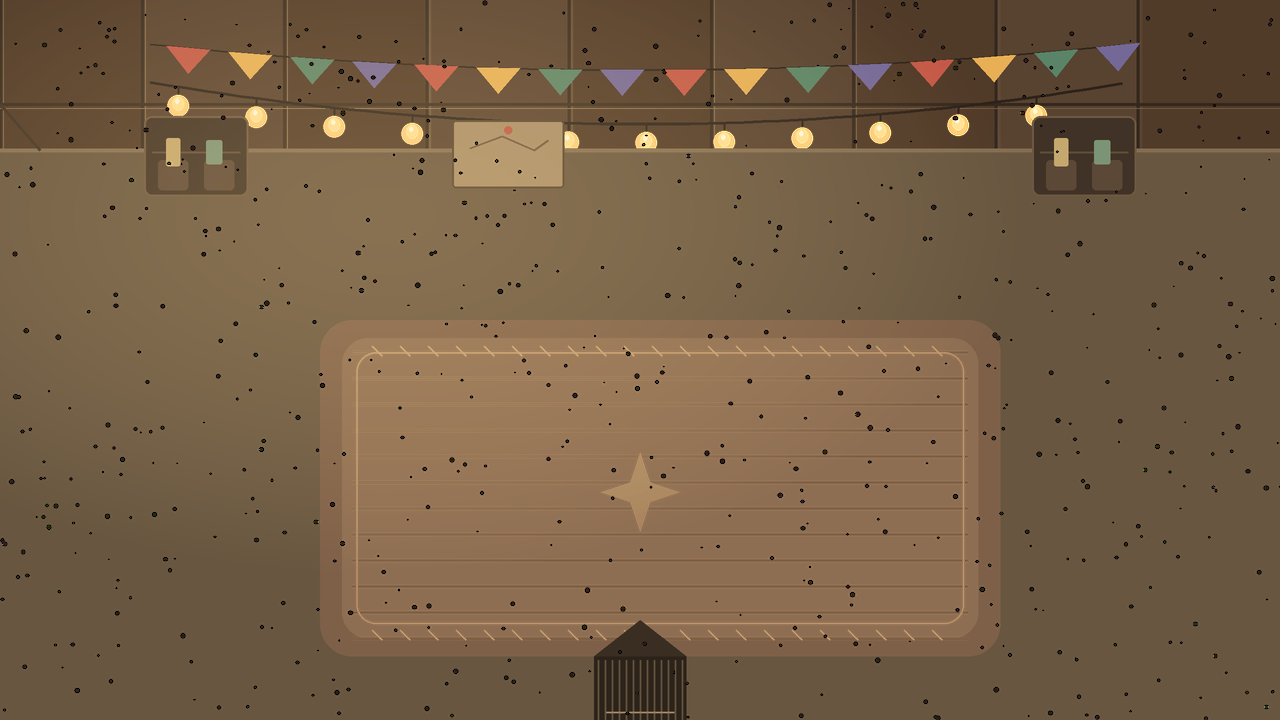
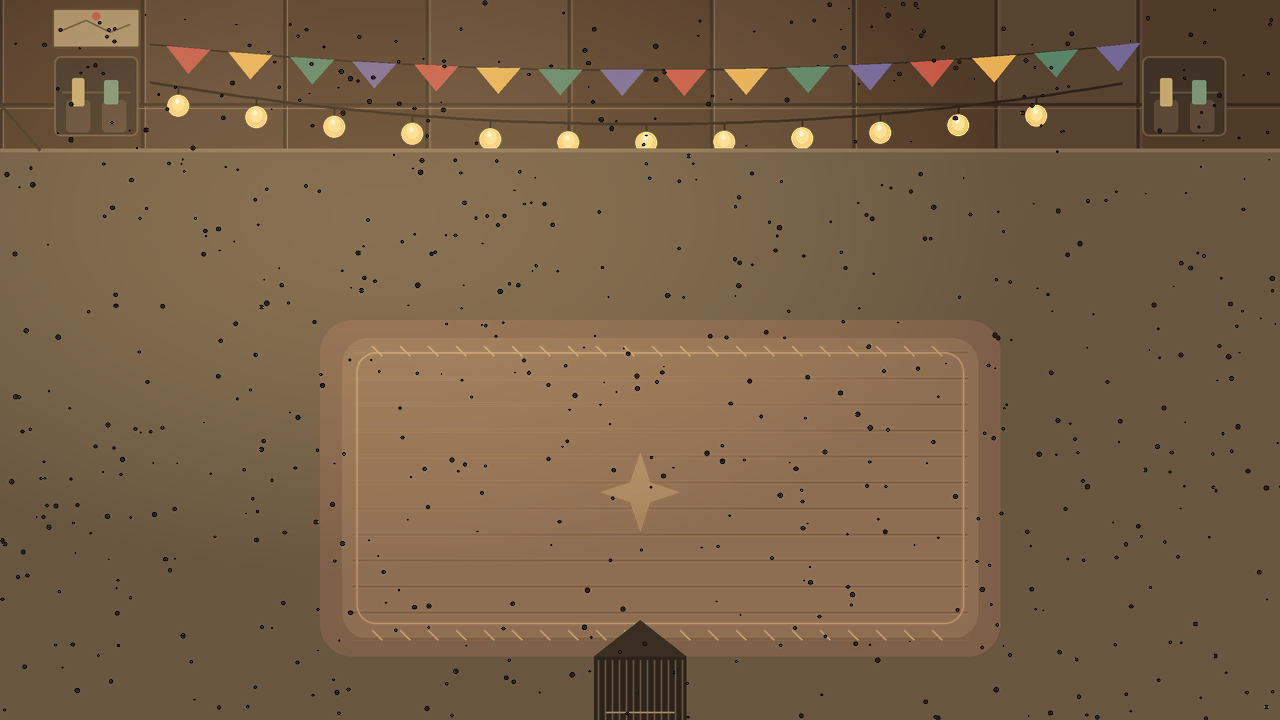
텐트 벽 걷기 방지·벽 장식 위치 정리·장식 소품 통과 불가 수정

diff --git a/Project/pico_heist/make_assets.py b/Project/pico_heist/make_assets.py
@@ -380,27 +380,27 @@ def bg_tent():
                (cx * ss, (cy + 40) * ss), ((cx - 10) * ss, (cy + 10) * ss),
                ((cx - 40) * ss, cy * ss), ((cx - 10) * ss, (cy - 10) * ss)],
               fill=(166, 130, 94, 95))
-    # ---- 벽 수납 포켓 (좌우, 이음선 아래에 걸려 있음)
-    for bx in (196, 1084):
-        d.rounded_rectangle([(bx - 52) * ss, 116 * ss, (bx + 52) * ss, 196 * ss],
-                            8 * ss, fill=(64, 50, 38, 255),
+    # ---- 좌우 벽 수납 포켓 (걷지 못하는 벽면 안쪽에만 걸어 둔다)
+    for bx in (96, 1184):
+        d.rounded_rectangle([(bx - 42) * ss, 56 * ss, (bx + 42) * ss, 136 * ss],
+                            7 * ss, fill=(64, 50, 38, 255),
                             outline=(110, 88, 64, 255), width=2 * ss)
-        d.line([(bx - 44) * ss, 152 * ss, (bx + 44) * ss, 152 * ss],
+        d.line([(bx - 34) * ss, 92 * ss, (bx + 34) * ss, 92 * ss],
                fill=(96, 76, 56, 255), width=2 * ss)
-        for x0, x1 in ((bx - 38, bx - 8), (bx + 8, bx + 38)):
-            d.rounded_rectangle([x0 * ss, 160 * ss, x1 * ss, 190 * ss],
+        for x0, x1 in ((bx - 30, bx - 6), (bx + 6, bx + 30)):
+            d.rounded_rectangle([x0 * ss, 100 * ss, x1 * ss, 132 * ss],
                                 4 * ss, fill=(92, 72, 54, 255))
-        d.rounded_rectangle([(bx - 30) * ss, 138 * ss, (bx - 16) * ss, 166 * ss],
+        d.rounded_rectangle([(bx - 24) * ss, 78 * ss, (bx - 12) * ss, 106 * ss],
                             2 * ss, fill=(196, 168, 110, 255))
-        d.rounded_rectangle([(bx + 10) * ss, 140 * ss, (bx + 26) * ss, 164 * ss],
+        d.rounded_rectangle([(bx + 8) * ss, 80 * ss, (bx + 22) * ss, 104 * ss],
                             2 * ss, fill=(124, 148, 118, 255))
-    # ---- 벽에 걸린 지도 메모
-    d.rounded_rectangle([452 * ss, 120 * ss, 564 * ss, 188 * ss], 4 * ss,
+    # ---- 왼쪽 벽 지도 메모 (포켓 위, 역시 벽면 안쪽)
+    d.rounded_rectangle([52 * ss, 8 * ss, 140 * ss, 48 * ss], 3 * ss,
                         fill=(168, 142, 104, 255), outline=(88, 68, 48, 255),
                         width=2 * ss)
-    d.line([(470 * ss, 148 * ss), (502 * ss, 136 * ss), (534 * ss, 150 * ss),
-            (548 * ss, 140 * ss)], fill=(110, 86, 62, 220), width=2 * ss)
-    d.ellipse([(504 * ss, 126 * ss), (512 * ss, 134 * ss)],
+    d.line([(62 * ss, 30 * ss), (86 * ss, 20 * ss), (110 * ss, 32 * ss),
+            (130 * ss, 24 * ss)], fill=(110, 86, 62, 220), width=2 * ss)
+    d.ellipse([(92 * ss, 12 * ss), (100 * ss, 20 * ss)],
               fill=(190, 88, 72, 255))
     # 지퍼 출입구 (아래 가운데)
     d.rectangle([594 * ss, 656 * ss, 686 * ss, H * ss], fill=(44, 35, 26, 255))

diff --git a/Project/pico_heist/game.py b/Project/pico_heist/game.py
@@ -126,11 +126,11 @@ PROP_SPECS = {
     "prop_grill":      dict(solid=(60, 22), cover=None, pad=2, shadow=64),
     "prop_sleepbag":   dict(solid=(0, 0), cover=None, pad=2, shadow=118),
     "prop_sleeper":    dict(solid=(0, 0), cover=None, pad=2, shadow=0),
-    # 텐트 장식 소품 — 충돌·엄폐·은신 기능 없이 보이는 것만 한다
-    "prop_backpack":   dict(solid=(0, 0), cover=None, pad=1, shadow=44),
-    "prop_rollmat":    dict(solid=(0, 0), cover=None, pad=1, shadow=80),
-    "prop_mug":        dict(solid=(0, 0), cover=None, pad=1, shadow=24),
-    "prop_book":       dict(solid=(0, 0), cover=None, pad=1, shadow=36),
+    # 텐트 장식 소품 — 통과는 못 하지만 시야 차단·은신 기능은 없다
+    "prop_backpack":   dict(solid=(48, 60), cover=None, pad=1, shadow=44),
+    "prop_rollmat":    dict(solid=(88, 24), cover=None, pad=1, shadow=80),
+    "prop_mug":        dict(solid=(24, 28), cover=None, pad=1, shadow=24),
+    "prop_book":       dict(solid=(36, 20), cover=None, pad=1, shadow=36),
 }
 
 

diff --git a/Project/pico_heist/maps.py b/Project/pico_heist/maps.py
@@ -66,7 +66,7 @@ MAPS = [
             "no_go": [
                 (0, 0, 146, 720),        # 왼쪽 벽
                 (1134, 0, 1280, 720),    # 오른쪽 벽
-                (0, 0, 1280, 118),       # 뒤쪽 벽
+                (0, 0, 1280, 150),       # 뒤쪽 벽 (바닥 매트 시작선까지 막는다)
             ],
             "door": (598, 652, 682, 704),
             "props": [
@@ -245,7 +245,7 @@ MAPS = [
             "no_go": [
                 (0, 0, 150, 720),        # 왼쪽 벽
                 (1130, 0, 1280, 720),    # 오른쪽 벽
-                (0, 0, 1280, 118),       # 뒤쪽 벽
+                (0, 0, 1280, 150),       # 뒤쪽 벽 (무대 바닥 시작선까지 막는다)
             ],
             "door": (598, 652, 682, 704),
             "props": [

diff --git a/Project/pico_heist/README.md b/Project/pico_heist/README.md
@@ -60,7 +60,7 @@ python main.py
 - **3번 맵에만 무대 뒤 조리 부스** 서브 맵이 있다. 주황 부스 앞에서 **E**로 들어가고, 안쪽 출입구에서 다시 **E**로 나온다. 진짜 음식 수프가 이 안에 있다.
 - 2번 맵에는 **부두 위에 서 있는 사람이 없다.** 대신 호숫가 언덕에 **앉아서 낚시하는 캠핑객**이 물을 바라보며 앉아 있다(낚싯줄과 물결 연출 포함).
 - 텐트 안에는 **자는 사람**이 있다. 시야는 없지만 **가까이 가면 감지도가 아주 급격하게 오른다**.
-- 텐트 안에는 테이블·쿨러·크레이트 짐더미까지 **소품 15개**가 있어 문에서 음식까지 동선이 한 번씩 꺾인다. 테이블은 추격 시야를 끊는 유일한 엄폐물이다. (자는 사람은 소리를 듣지 않으므로 이 소품들은 감지 수치를 낮추지 않고, 동선만 늘린다.) 배낭·말아 놓은 매트·머그컵·공책 4개는 **충돌·엄폐가 없는 순수 장식**이라 동선과 감지에 영향을 주지 않는다. 벽에는 깃발·전등 줄·수납 포켓·지도 메모가 걸려 있고 바닥에는 무늬 러그가 깔려 있다.
+- 텐트 안에는 테이블·쿨러·크레이트 짐더미까지 **소품 15개**가 있어 문에서 음식까지 동선이 한 번씩 꺾인다. 테이블은 추격 시야를 끊는 유일한 엄폐물이다. (자는 사람은 소리를 듣지 않으므로 이 소품들은 감지 수치를 낮추지 않고, 동선만 늘린다.) 배낭·말아 놓은 매트·머그컵·공책 4개는 **지나갈 수는 없지만 시야를 가리지는 않는 장식**이라 동선만 늘리고 감지 수치는 낮추지 않는다. 벽에는 깃발·전등 줄·수납 포켓·지도 메모가 걸려 있고 바닥에는 무늬 러그가 깔려 있다. **뒤쪽 벽은 바닥 매트 시작선(y=150)까지 막혀 있어 벽 위를 걸을 수 없다.**
 - 텐트 안에서 쫓기면 출입구로 도망쳐 나올 수 있다 (나가는 순간 추격 종료).
 - 마지막 음식(=진짜 음식)이 텐트 안에 있으면, **밖으로 나오는 순간 출구가 열린다.** 게이트까지 걸어가 E를 눌러야 다음 맵으로 간다.
 - **2번 맵 호숫가 낚시 맵**: 나무 배 위에서만 움직인다. E 홀드 게이지가 1.5초면 가득 차고, 초록 구간 타이밍에 E를 떼면 물고기가 떠오르는 연출과 소음(26)이 발생한다. 빗나가면 도망친다. 잡은 생선은 HUD 15칸의 ★ 슬롯에 들어간다.
@@ -168,7 +168,7 @@ pico2d 창을 띄운 상태에서 로직을 직접 실행하는 자동 검증 22
 - **걸어서 다음 맵으로: 맵 완료 시 게이트 + 길 표지 표시, 게이트 밖에서는 E 프롬프트 없음, 낚시 후 부두 복귀에도 출구 유지, 마지막 게이트 E에서만 win**
 - **HUD 15칸 유지, 별 표시 + 남은 음식(5→0)/진짜 음식(0/3) 카운터 검증**
 - 맵/음식 데이터, 15종 음식 중복 없음, 맵마다 수풀 5개 이상, 텐트 소품 포함 모든 스프라이트 존재
-- 텐트 소품 15개(테이블 엄폐 + 장식 4개는 충돌·엄폐 없음), 텐트 음식이 항상 자는 사람의 위험 반경 안에 있는지
+- 텐트 소품 15개(테이블 엄폐 + 장식 4개는 통과 불가·엄폐 없음), 뒤쪽 벽 위 걷기 방지, 텐트 음식이 항상 자는 사람의 위험 반경 안에 있는지
 
 ## 아직 없는 것 (3주차 이후)
 
